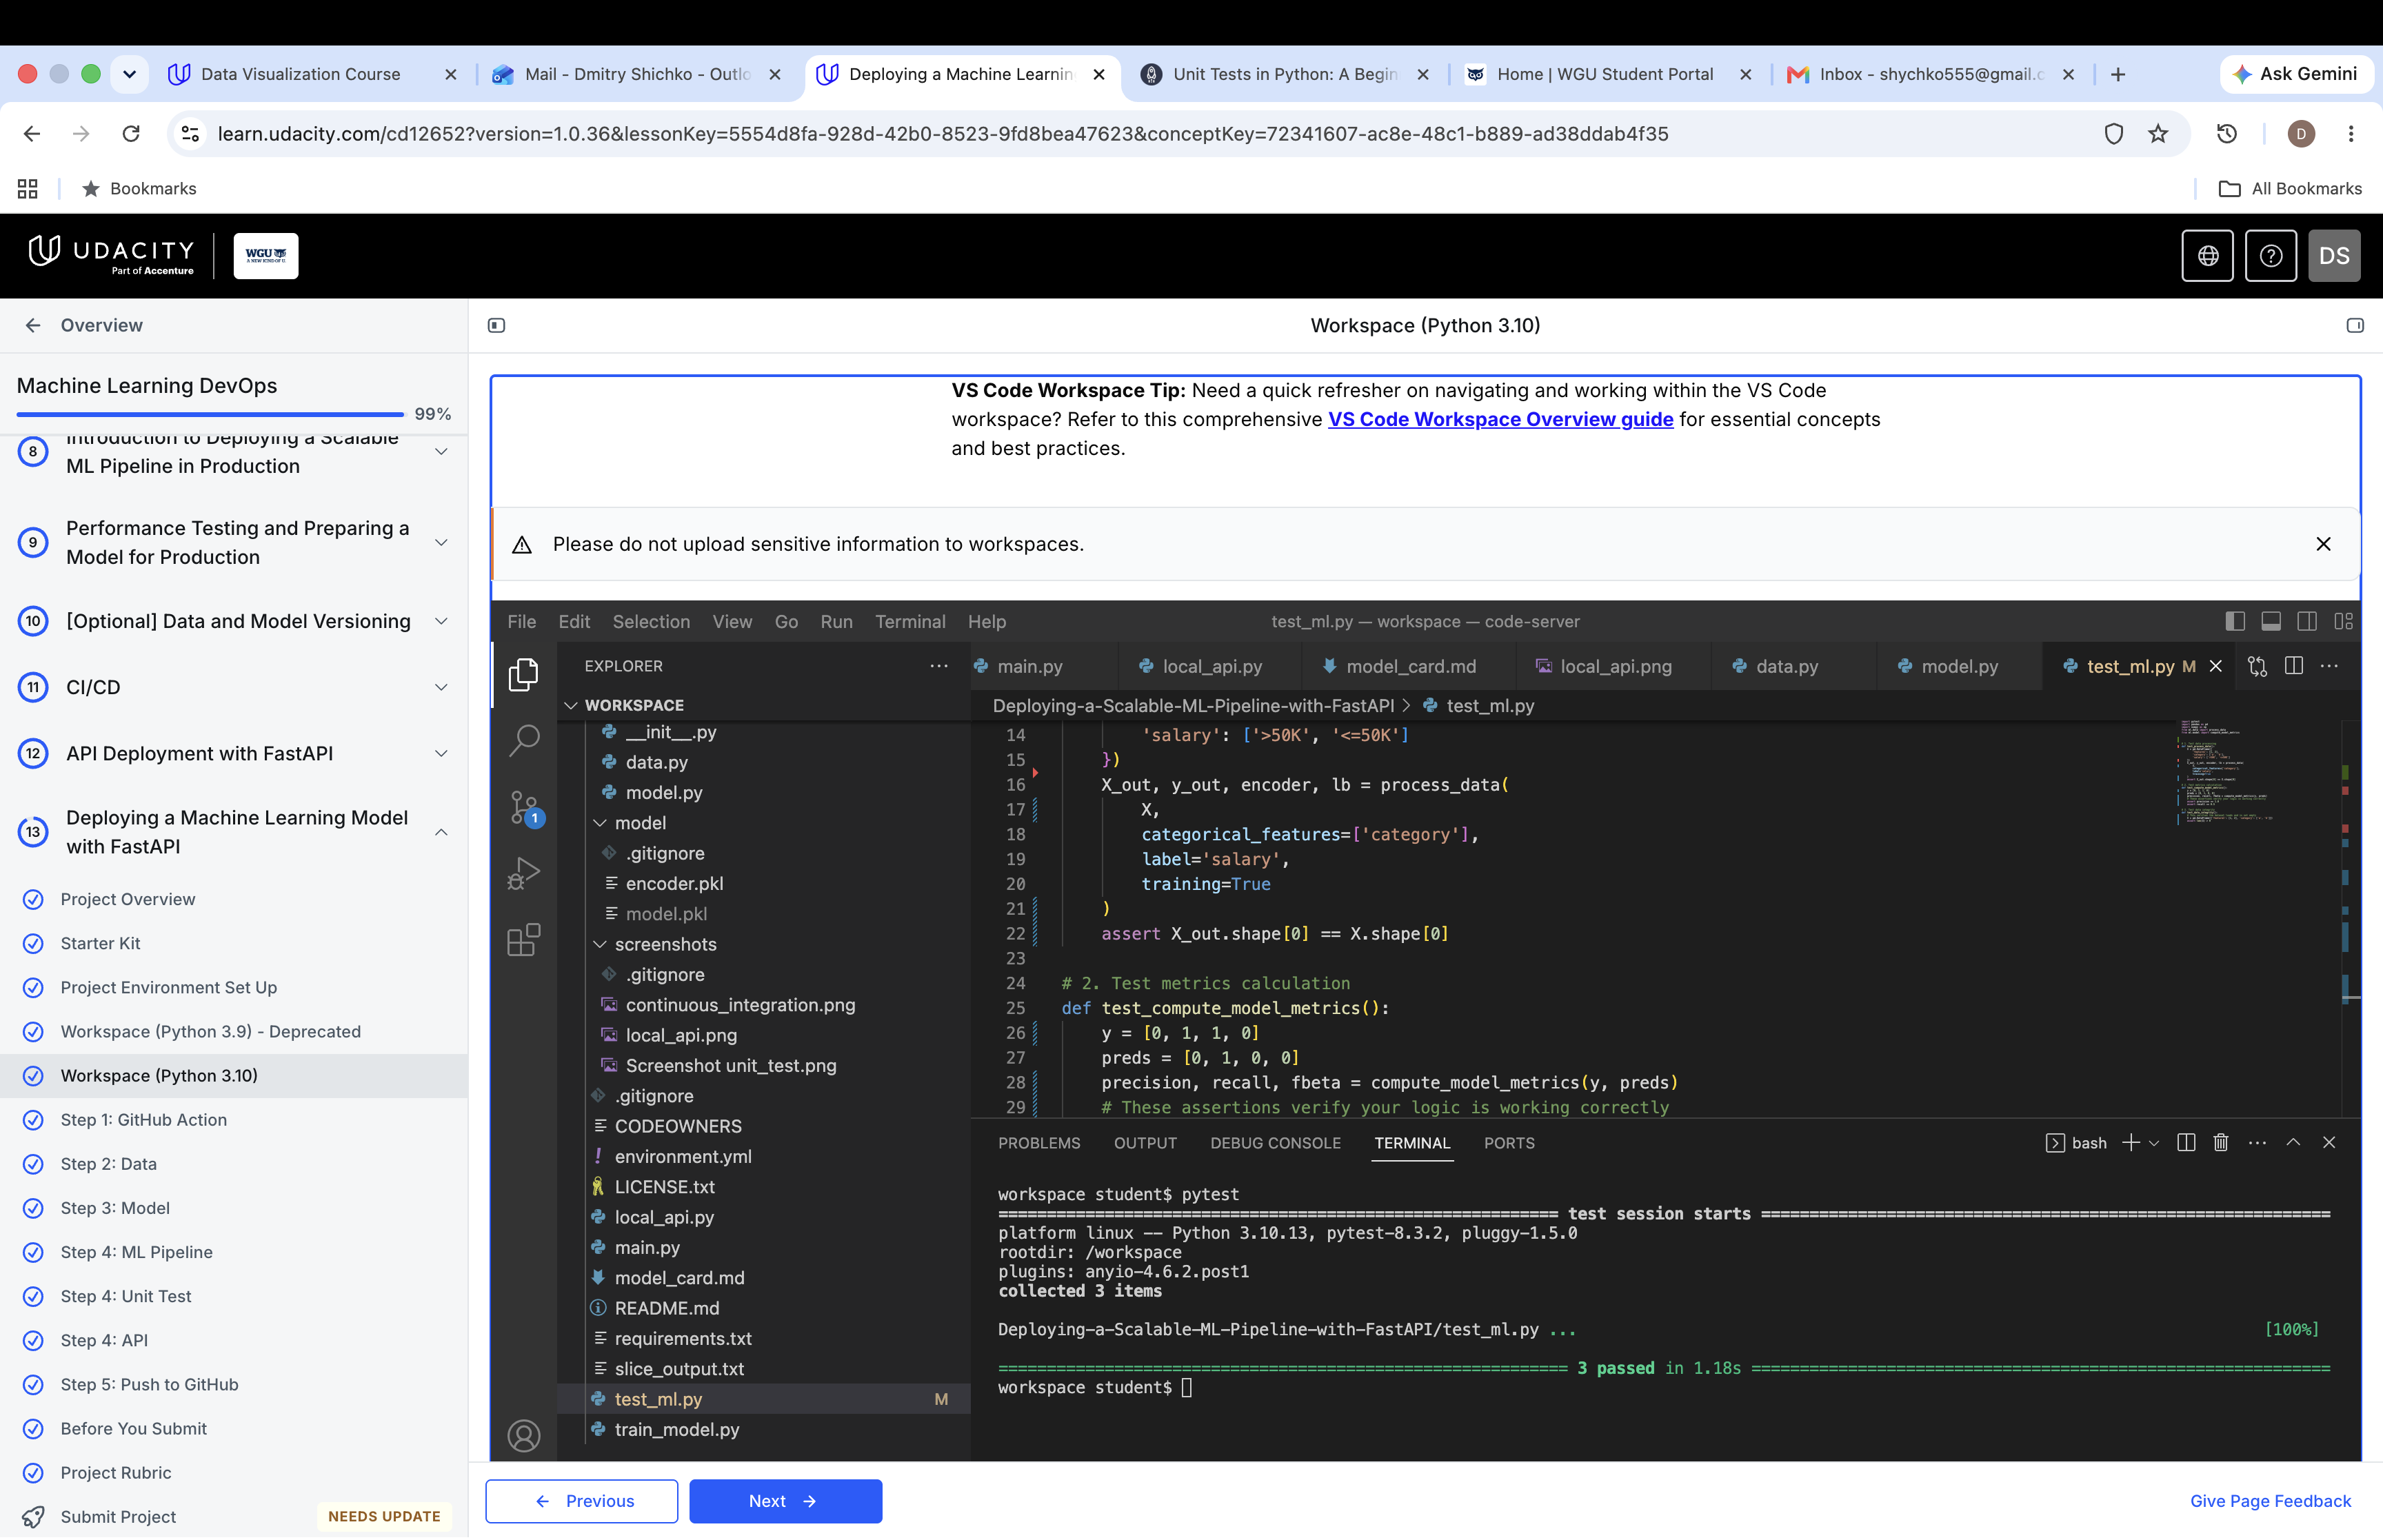
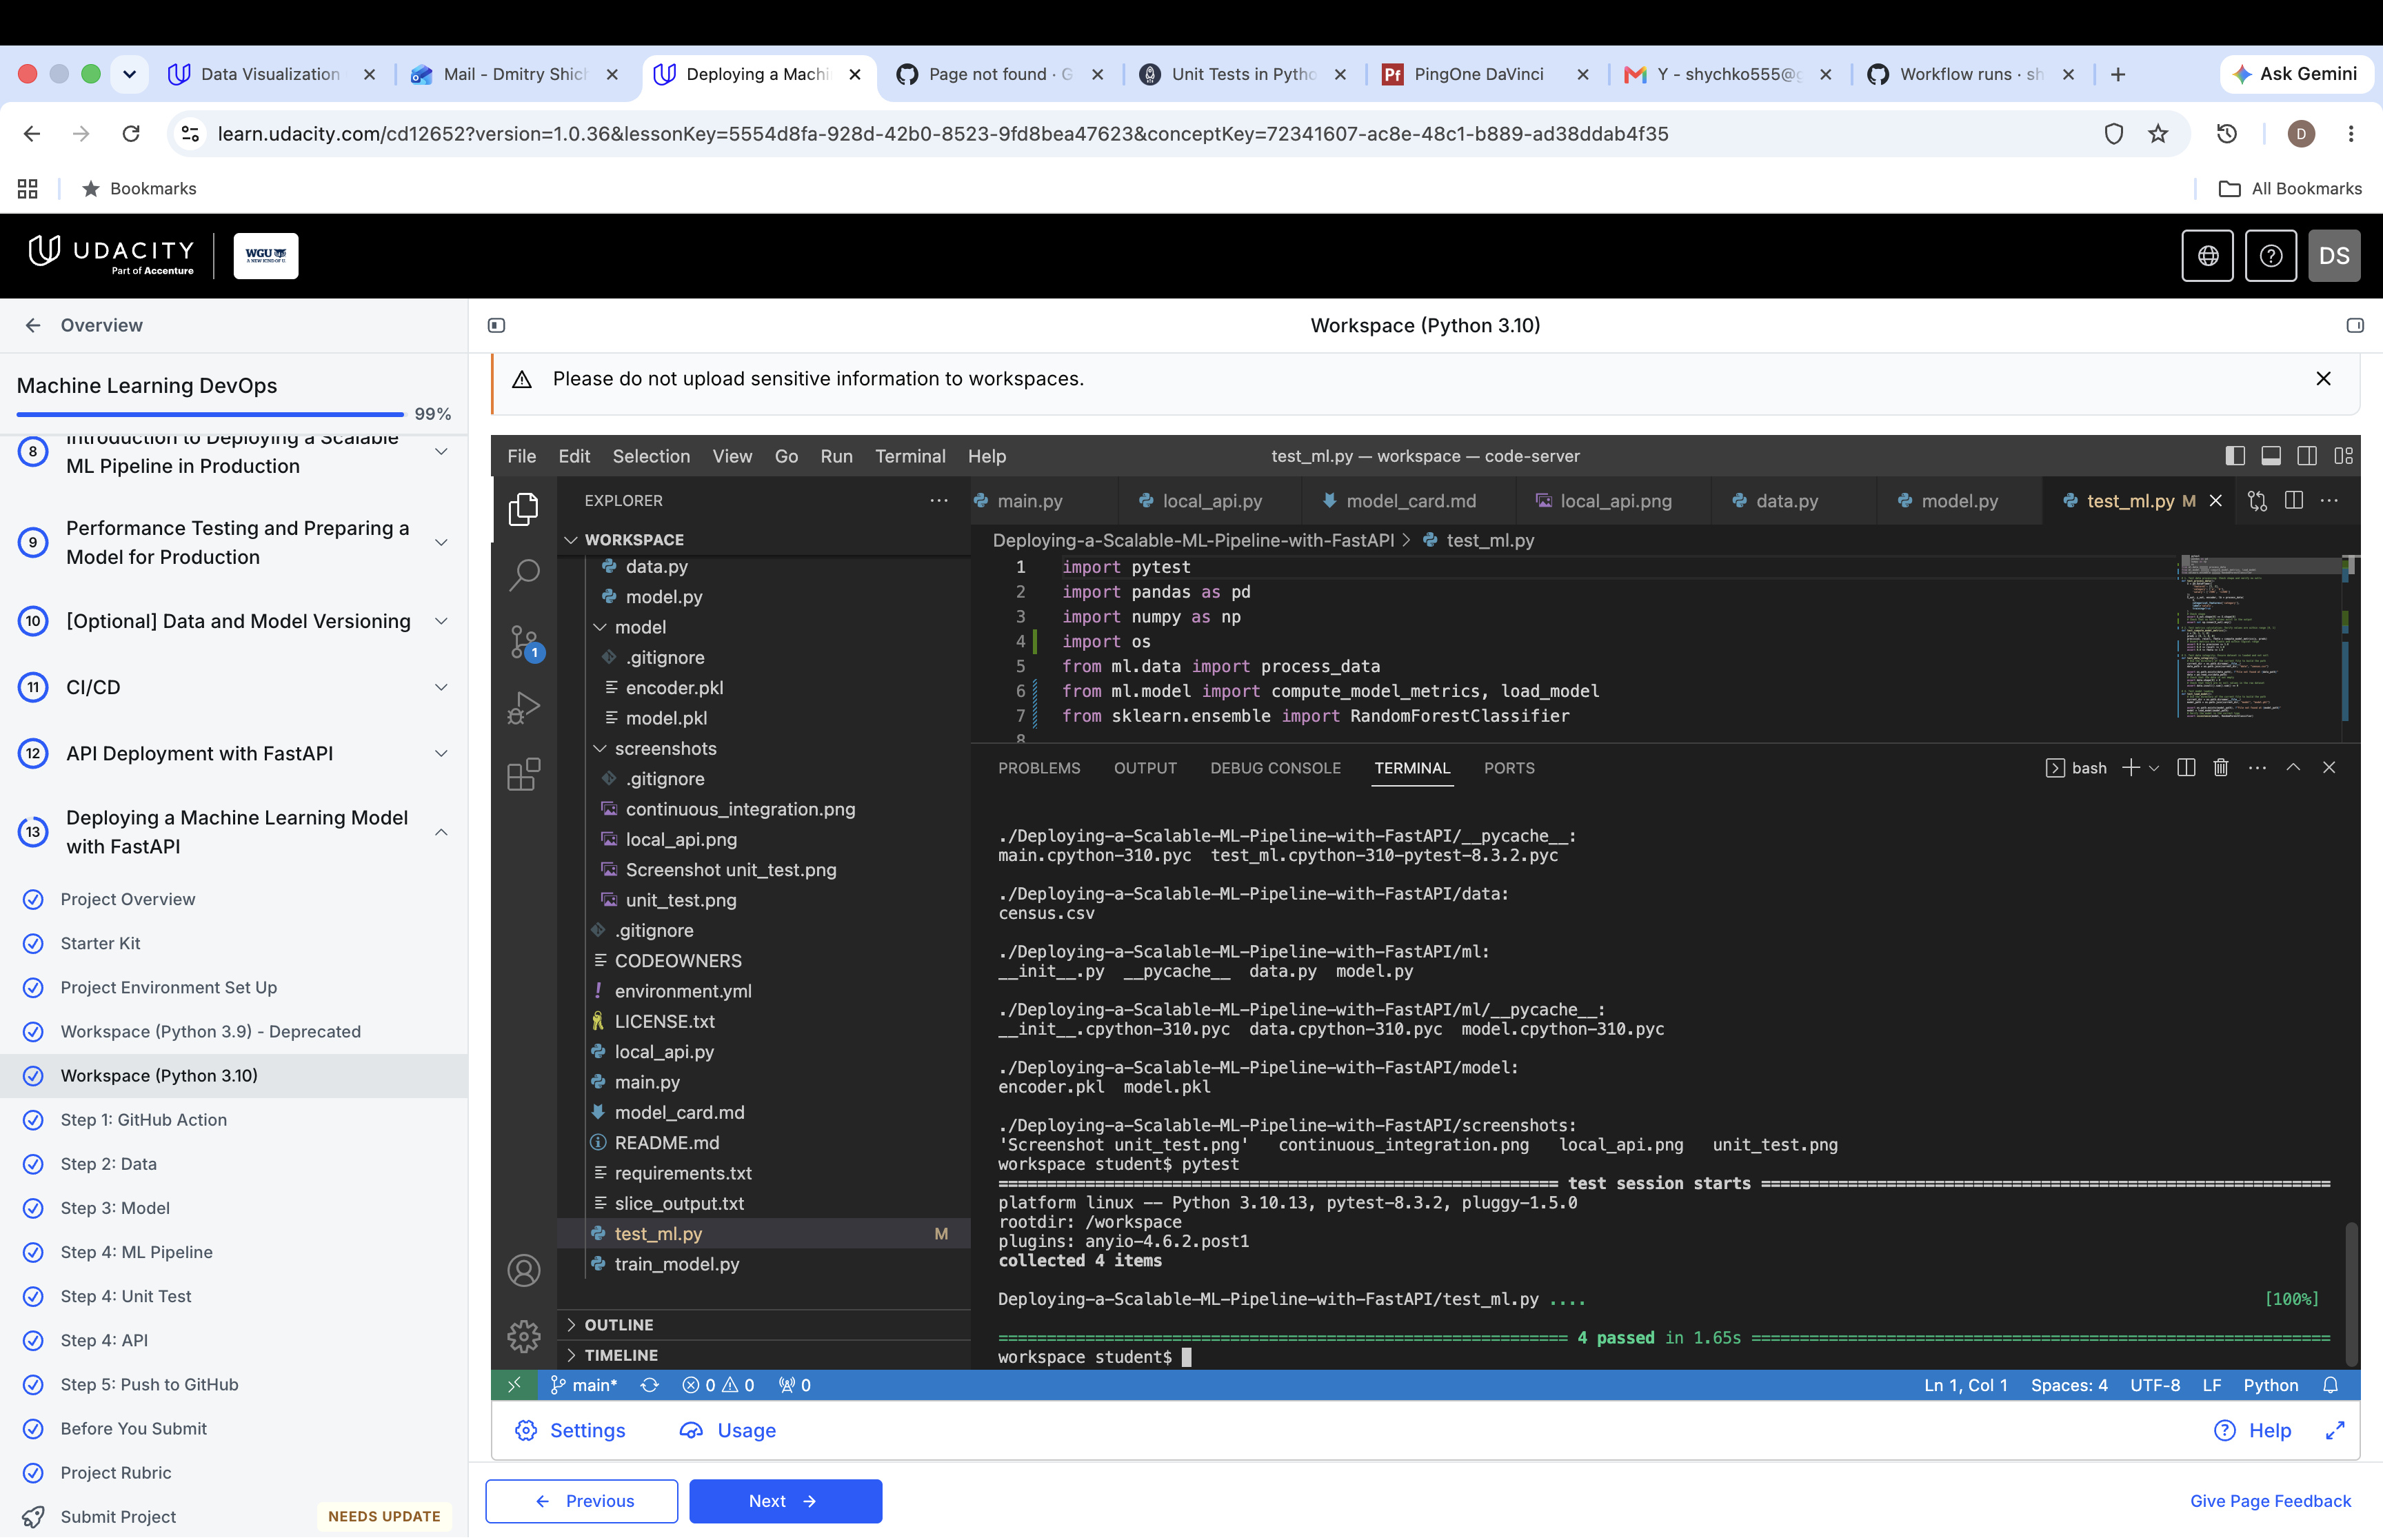
Update unit tests with fresh screenshot

Changed region(s): [[0.1875, 0.2471, 1.0, 0.9575], [0.1562, 0.0309, 0.8438, 0.0927]]

diff --git a/test_ml.py b/test_ml.py
@@ -1,12 +1,12 @@
 import pytest
 import pandas as pd
 import numpy as np
+import os
 from ml.data import process_data
-from ml.model import compute_model_metrics
+from ml.model import compute_model_metrics, load_model
+from sklearn.ensemble import RandomForestClassifier
 
-
-
-# 1. Test data processing
+# 1. Test data processing: Check shape and verify no nulls
 def test_process_data():
     X = pd.DataFrame({
         'feature1': [1, 2],
@@ -19,19 +19,41 @@ def test_process_data():
         label='salary',
         training=True
     )
+    # Check shape
     assert X_out.shape[0] == X.shape[0]
+    # Check that no null values exist in the output
+    assert not np.isnan(X_out).any()
 
-# 2. Test metrics calculation
+# 2. Test metrics calculation: Verify values are within range [0, 1]
 def test_compute_model_metrics():
     y = [0, 1, 1, 0]
     preds = [0, 1, 0, 0]
     precision, recall, fbeta = compute_model_metrics(y, preds)
-    # These assertions verify your logic is working correctly
-    assert precision == 1.0
-    assert recall == 0.5
+    # Assert metrics are floats and within logical range
+    assert 0.0 <= precision <= 1.0
+    assert 0.0 <= recall <= 1.0
+    assert 0.0 <= fbeta <= 1.0
 
-# 3. Test data integrity
+# 3. Test data integrity: Ensure dataset is loaded and not null
 def test_data_integrity():
-    # This verifies the dataset loads and is not empty
-    X = pd.DataFrame({'feature1': [1, 2], 'category': ['a', 'b']})
-    assert len(X) > 0
+    # Use the directory of the current file to build the path
+    current_dir = os.path.dirname(__file__)
+    data_path = os.path.join(current_dir, "data", "census.csv")
+
+    assert os.path.exists(data_path), f"File not found at {data_path}"
+    data = pd.read_csv(data_path)
+    # Check that the data is not empty
+    assert data.shape[0] > 0
+    # Check that there are no null values in the raw dataset
+    assert data.isnull().sum().sum() == 0
+
+# 4. Test model loading
+def test_load_model():
+    # Use the directory of the current file to build the path
+    current_dir = os.path.dirname(__file__)
+    model_path = os.path.join(current_dir, "model", "model.pkl")
+
+    assert os.path.exists(model_path), f"File not found at {model_path}"
+    model = load_model(model_path)
+    # Verify the model is the correct type
+    assert isinstance(model, RandomForestClassifier)